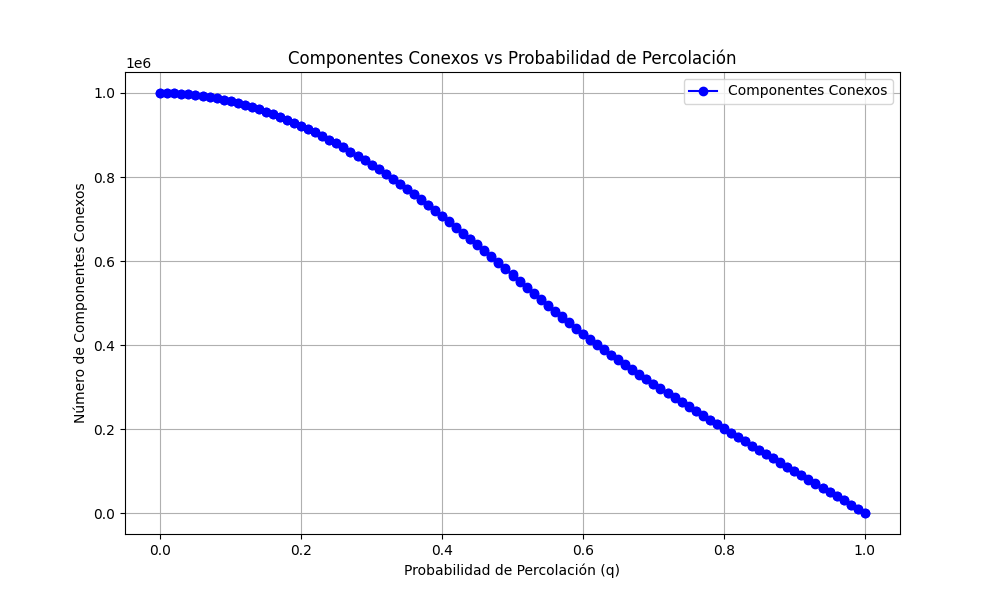
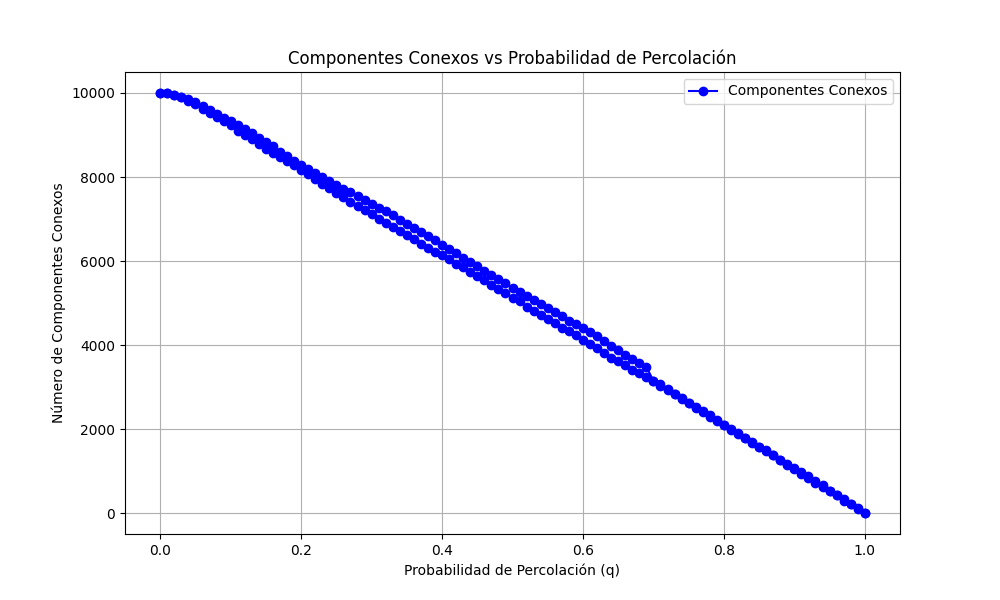
Distrubicuion normal de las posiciones networkX

diff --git a/graph_generator.py b/graph_generator.py
@@ -1,6 +1,6 @@
 import networkx as nx
 import matplotlib.pyplot as plt
-
+import random
 
 def generate_random_erdos_graph(num_nodes, edge_prob):
     G = nx.erdos_renyi_graph(num_nodes, edge_prob)
@@ -20,8 +20,8 @@ def generate_malla(x, y):
 
 def generate_random_geometric_graph(num_nodes, radius):
     # Generate a random geometric graph
-    G = nx.random_geometric_graph(num_nodes, radius)
-    
+    pos = {i: (random.gauss(0, 2), random.gauss(0, 2)) for i in range(n)}
+    G = nx.random_geometric_graph(num_nodes, 0.2, pos=pos)
     # Check if the graph is connected, and connect disjoint components if needed
     if not nx.is_connected(G):
         # Get the connected components
@@ -66,17 +66,17 @@ if tipo == "m":
     n, m = map(int, input("Introduce la altura y anchura de la malla (separados por un espacio): ").split())
     graph = generate_malla(n, m)
     #draw_graph_malla(graph)
-    if guardar: write_graph_to_file(fileName, graph, graph.number_of_nodes())
+    if guardar == 'y': write_graph_to_file(fileName, graph, graph.number_of_nodes())
 
 if tipo == "g":
     n = int(input("Introduce el número de nodos: "))
     r = float(input("Introduce el radio para las aristas: "))
     graph = generate_random_geometric_graph(n, r)
-    if guardar: write_graph_to_file(fileName, graph, graph.number_of_nodes())
+    if guardar == 'y': write_graph_to_file(fileName, graph, graph.number_of_nodes())
 
 else:
     n = int(input("Introduce el número de nodos: "))
     p = float(input("Introduce la probabilidad de las aristas: "))
     graph = generate_random_erdos_graph(n, p)
     #draw_graph_erdos_renyi(graph)
-    if guardar: write_graph_to_file(fileName, graph, graph.number_of_nodes())
+    if guardar == 'y': write_graph_to_file(fileName, graph, graph.number_of_nodes())
